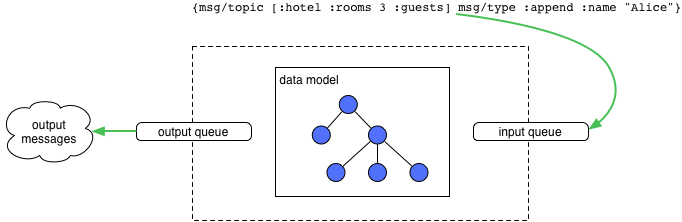
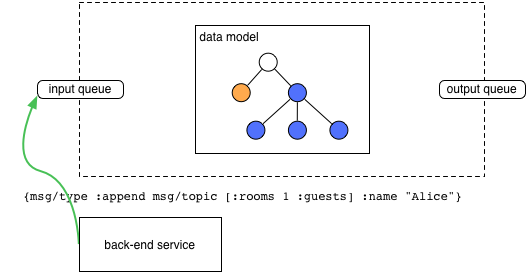
update application overview

diff --git a/documentation/application-overview.md b/documentation/application-overview.md
@@ -15,15 +15,10 @@ title: Application Overview
  You must not remove this notice, or any other, from this software.
 -->
 
-* Why use queues and isolate the black box?
-* Why dataflow?
-* Why are there five dataflow functions?
-* Why do dataflow functions take one generic argument?
-
 # Application Overview
 
 This document is a high-level description of the key ideas behind
-Pedestal-app. Detailed documentation of each feature will be provided as
+pedestal-app. Detailed documentation of each feature will be provided as
 Pedestal becomes more mature. This document, in addition to the
 pedestal-app tutorial should be enough to get stated.
 
@@ -121,15 +116,14 @@ drop data and compact data on the queue.
 
 In a Pedestal application, application state is stored in a tree. This
 tree is the application's **data model**. Imagine that we are creating
-a hotel reservation system. A portion of the data model may look
+a hotel information system. A portion of the data model may look
 something like this
 
 ![Data Model Tree](/documentation/images/app/hotel-model.png)
 
 All data for a hotel is stored under the root node. We can represent
-the path to this node as `[:hotel]`. All data for rooms is stored
-under `[:hotel :rooms]` and all data for room 3 is stored under
-`[:hotel :rooms 3]`.
+the path to this node as `[]`. All data for rooms is stored under
+`[:rooms]` and all data for room 3 is stored under `[:rooms 3]`.
 
 This data model lives inside an application. The only way for the
 data model to change is for a message to be sent to the
@@ -155,16 +149,11 @@ namespace as `msg` and use the `topic` and `type` vars as a shorthand
 
 ```clojure
 (require '[io.pedestal.app.messages :as msg])
-{msg/topic [:hotel :rooms 3 :guests] msg/type :append :name "Alice"}
+{msg/type :add-name msg/topic [:rooms 1 :guests] :name "Alice"}
 ```
 
-In the context of a hotel reservation system, this message could mean
-that we are adding "Alice" as a guest who will be staying in room 3. A
-more abstract way of thinking about this is that we would like to
-append the name "Alice" to a collection located at the path `[:hotel
-:rooms 3 :guests]`. `:append` could possibly map to a function which
-calls `conj` to add "Alice" to a list or it could add "Alice" as another
-node in the tree.
+In the context of a hotel information system, this message could mean
+that we are adding "Alice" as a guest who will be staying in room 1.
 
 ![App with Message](/documentation/images/app/app-message.png)
 
@@ -185,13 +174,13 @@ A transform function takes two arguments, the old value at the topic
 path and the message. It returns the new value at that path.
 
 ```clojure
-(defn append-name [old-value message]
-  (conj old-value (:name message))
+(defn add-name [old-value message]
+  ((fnil conj []) old-value (:name message)))
 ```
 
 This transform function could be used to process the message shown
 above. It could also be used to process any message which adds a name
-to a collection.
+to a vector.
 
 Messages are routed to transform functions. When we describe a
 Pedestal application, we provide a *routing table* which controls how
@@ -199,7 +188,7 @@ this is done. The table that routes a message to this function might
 look like this:
 
 ```clojure
-[[:append [:hotel :rooms :* :guests] append-name]]
+[[:add-name [:rooms :* :guests] add-name]]
 ```
 
 The routing table is a vector of vectors. The first matching vector
@@ -213,53 +202,159 @@ against.
 The type my be a wildcard `:*` and the path may contain wildcards as
 the example above does. The function in the first vector with a
 matching type and topic will be used. For the message above this
-function will be passed the old value at `[:hotel :rooms 3
-:guests]`. The update performed on the data model is essentially this
+function will be passed the old value at `[:rooms 1 :guests]`. The
+update performed on the data model is essentially this
 
 ```clojure
-(update-in data-model [:hotel :rooms 3 :guests] append-name message)
+(update-in data-model [:rooms 1 :guests] add-name message)
 ```
+
+### Why route transform functions?
+
+What value does the routing table provide? Messages contain all the
+information that we need to find a function and update the data
+model.
+
+The main benefit of the routing table is that it lets you restrict
+what operations may be performed on what parts of the data
+model. Without this table, any operation could be performed anywhere
+and this may not make sense. It also allows you to clearly define
+which functions may be used to update the data model.
+
+
+### Aside
+
+This may not be a good enough reason to continue using the transform
+routing table. A more powerful approach to updating the data model
+would involve removing this table and then changing the message format
+to map to Clojure's reference update semantics.
+
+```clojure
+'(update-in [:rooms 1 :guests] add-name "Alice")
+;; kind of like
+(send app update-in [:rooms 1 :guests] add-name "Alice")
+```
+
+This would allow for arbitrary functions to be used to update the data
+model.
+
 
 ### Reporting changes to the data model with emit functions
 
 When the data model changes, something outside of the application's
-behavior will want to know about it. For example, the renderer will
-need to update the UI to show that Alice is now in room 3.
+behavior will want to know about it. One of those things is the
+renderer. We have not really discussed what a renderer is, but for now
+we can think of it as something which is pulling messages off of the
+output queue (which we will now call the **rendering** queue) and drawing
+things on a screen based on these messages.
 
-Emit functions are used to generate output messages which will be used
-by the renderer to update the user interface. An example of one of
-these messages is shown below.
+By default, an emitter is configured to render changes. When the
+following message is placed on the input queue
 
 ```clojure
-[:value [:hotel :rooms 3 :guests] ["Claire"] ["Claire" "Alice"]]
+{msg/type :add-name msg/topic [:rooms 1 :guests] :name "Alice"}
 ```
 
-This message means that the value at the path `[:hotel :rooms 3
-:guests]` has been changed from `["Claire"]` to `["Claire" "Alice"]`.
+The following messages are placed on the rendering queue
 
-These messages are produced by `emit` functions. Emit functions are
-called when a part of the data model which they care about
-changes. Emit functions are passed a value and return a sequence of
-messages like the one shown above.
+```clojure
+[:node-create [] :map]
+[:node-create [:rooms] :map]
+[:value [:rooms] nil {1 {:guests ["Alice"]}}]
+```
+
+These three messages describe the changes which have been made to the
+data model. The root node `[]` was created. Under this the node
+`[:rooms]` was created and the value for rooms was changed from `nil`
+to `{1 {:guests ["Alice"]}}`.
+
+As rendering code consumes these messages, it will modify the user
+interface in some way. When it receives the message 
+
+```clj
+[:node-create [:rooms] :map]
+```
+
+it may create a box in which to display room information. When it
+receives the message
+
+```clj
+[:value [:rooms] nil {1 {:guests ["Alice"]}}]
+```
+
+it can display which guests are in which room.
+
+There is an assumption being made here about what constitutes an
+atomic value from the renderers perspective. When the value at `[:rooms]`
+changes, the entire map will be sent in the update. For example,
+sending this message on the input queue
+
+```clj
+{msg/type :add-name msg/topic [:rooms 2 :guests] :name "Bob"}
+```
+
+will result in this message on the rendering queue
+
+```clj
+[:value [:rooms] {1 {:guests ["Alice"]}} {1 {:guests ["Alice"]}, 2 {:guests ["Bob"]}}]
+```
+
+This is fine if the rendering code is happy with getting updates at
+this resolution. Once there are a lot of rooms, the renderer may want
+to only update the rooms which have actually changed. With these
+updates, the rendering code would have to figure out what has
+changed. In general, we don't want rendering code to have to think to
+much. It's job is to just look pretty.
+
+We can configure an emitter to emit changes at the resolution that we
+would like. In the description of our application we could add the
+following
+
+```clj
+[[#{[:rooms :*]} (app/default-emitter)]]
+```
+
+In most cases where we need to define an emitter we only need to
+change the resolution at which change is reported. To do this we can
+use the default emitter in `io.pedestal.app` and provide a path which
+describes which branch of the tree to emit changes for an how far down
+to go to find atomic values.
+
+With this change, the first message
+
+```clj
+{msg/type :add-name msg/topic [:rooms 1 :guests] :name "Alice"}
+```
+
+will cause this to be emitted
+
+```clj
+[:node-create [] :map]
+[:node-create [:rooms] :map]
+[:node-create [:rooms 1] :map]
+[:value [:rooms 1] nil {:guests ["Alice"]}] 
+```
+
+and the second message
+
+```clj
+{msg/type :add-name msg/topic [:rooms 2 :guests] :name "Bob"}
+```
+
+will cause this to be emitted
+
+```clj
+[:node-create [:rooms 2] :map]
+[:value [:rooms 2] nil {:guests ["Bob"]}]
+```
+
+As mentioned above, you will almost always use the default emitter but
+you can write your own custom emitter function if you need to. 
 
 ![App with Emit](/documentation/images/app/app-with-emit.png)
 
 In the diagram above, the emit function is interested in any change
-which happens to the `[:hotel :rooms]` node of the tree. When we
-describe our application, we can indicate this interest in a vector
-like the one shown below.
-
-```clojure
-[[#{[:hotel :rooms]} rooms-emitter]]
-```
-
-This means that there is a function named `rooms-emitter`, which should
-be called whenever the node at `[:hotel :rooms]` changes. The emitter
-is passed the part of the tree that it cares about and returns a
-vector of changes like the one shown above.
-
-The messages returned from an emit function are placed on the
-**rendering** queue where they can be consumed by a renderer.
+which modifies the children of the `[:rooms]` node.
 
 
 ### Derived data
@@ -355,4 +450,8 @@ queue allowing the current transaction to complete.
 
 ## Rendering
 
+...
+
 ## Services
+
+...
